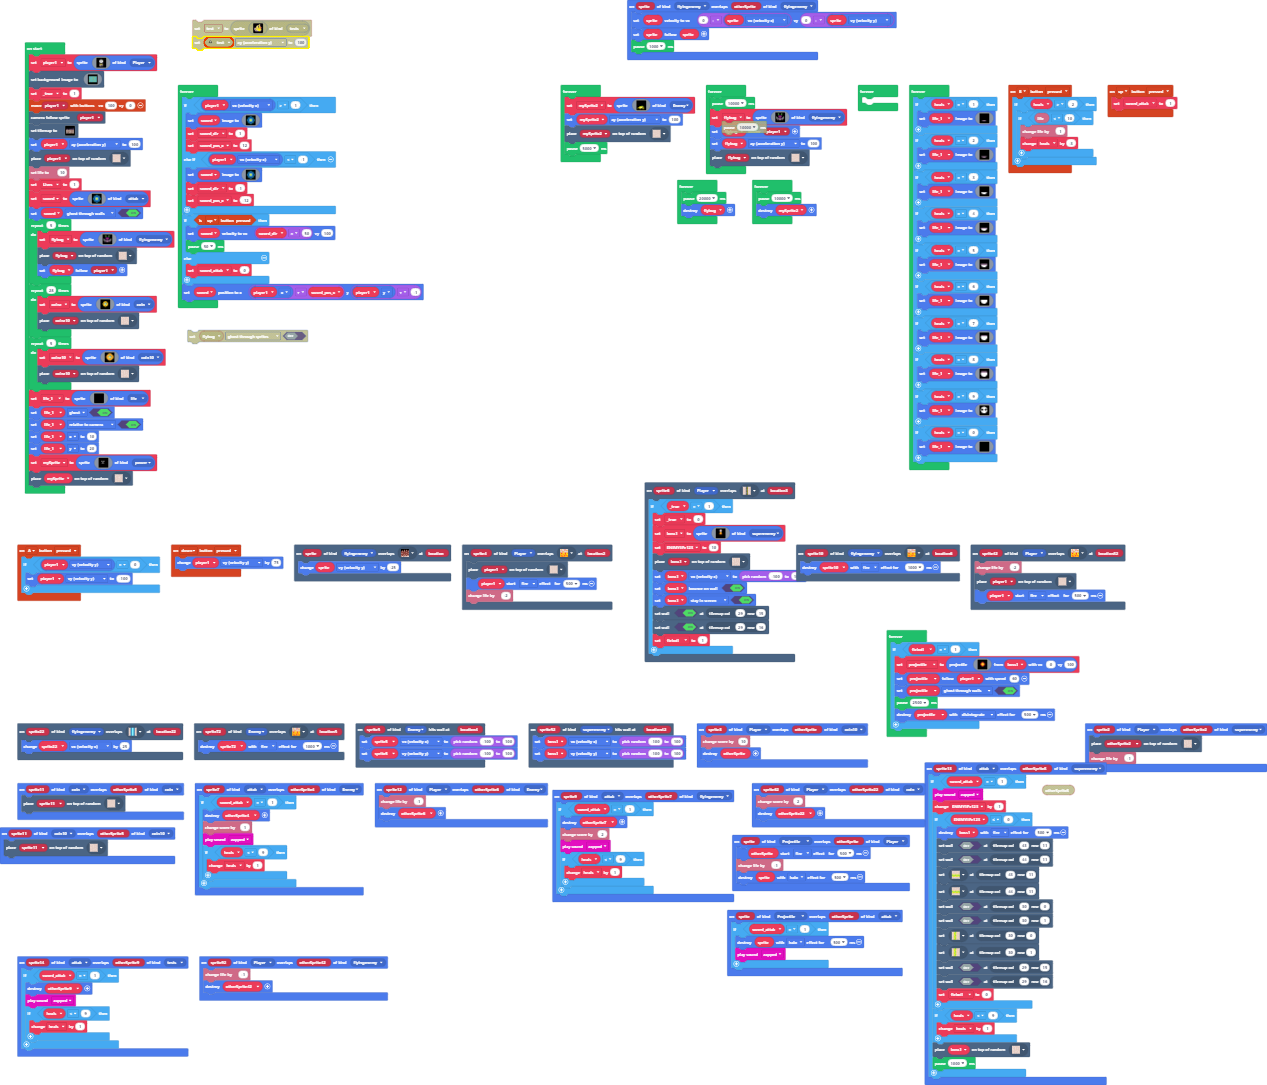
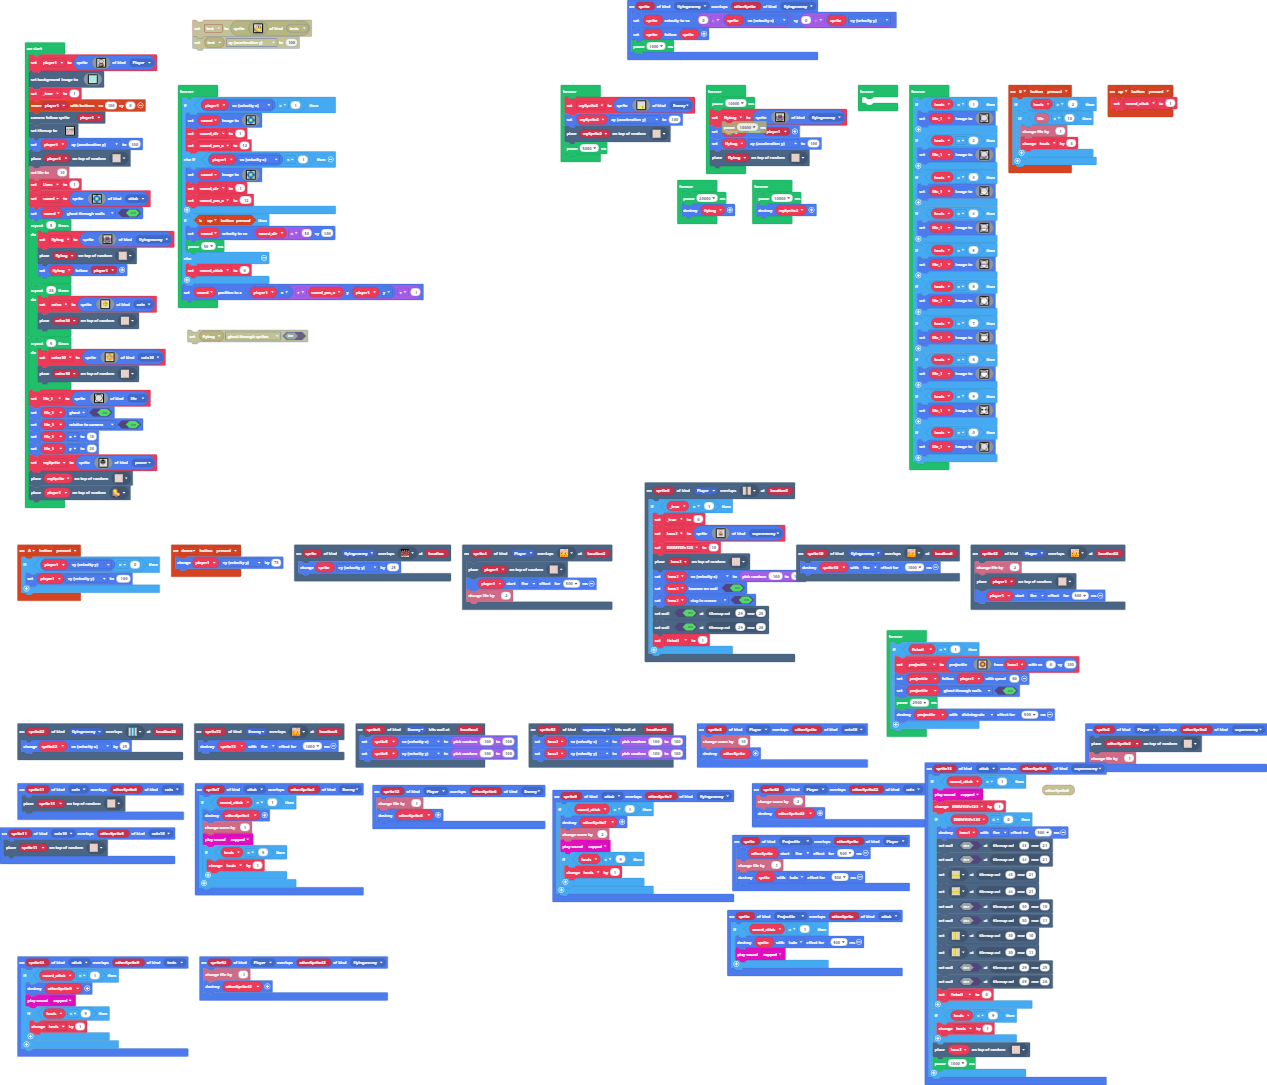
Update main.blocks, main.ts, tilemap.g.jres, tilemap.g.ts

Changed region(s): [[0.277, 0.6995, 0.4309, 0.7604], [0.0, 0.4258, 0.1231, 0.4866], [0.1539, 0.0304, 0.2463, 0.0608]]

diff --git a/tilemap.g.ts b/tilemap.g.ts
@@ -80,11 +80,13 @@ namespace myTiles {
     export const tile38 = image.ofBuffer(hex``);
     //% fixedInstance jres blockIdentity=images._tile
     export const tile39 = image.ofBuffer(hex``);
+    //% fixedInstance jres blockIdentity=images._tile
+    export const tile40 = image.ofBuffer(hex``);
 
     helpers._registerFactory("tilemap", function(name: string) {
         switch(helpers.stringTrim(name)) {
             case "level1":
[2 lines of base64/hex data omitted]
 .............................................
 .............................................
 .....................................22222222
@@ -115,7 +117,7 @@ namespace myTiles {
 ........2...................222...2..22..2...
 .2......2......2............222.2..........2.
 ........2...2..2............222..............
-`, [myTiles.transparency16,myTiles.tile1,myTiles.tile2,myTiles.tile3,myTiles.tile8,myTiles.tile14,myTiles.tile9,myTiles.tile18,myTiles.tile19,myTiles.tile20,myTiles.tile21,myTiles.tile22,myTiles.tile23,myTiles.tile24,myTiles.tile5,myTiles.tile25,myTiles.tile26,myTiles.tile27,myTiles.tile28,myTiles.tile30,myTiles.tile32,myTiles.tile33,myTiles.tile34,myTiles.tile35,myTiles.tile36,myTiles.tile37,myTiles.tile38,myTiles.tile39], TileScale.Sixteen);
+`, [myTiles.transparency16,myTiles.tile1,myTiles.tile2,myTiles.tile3,myTiles.tile8,myTiles.tile14,myTiles.tile9,myTiles.tile18,myTiles.tile19,myTiles.tile20,myTiles.tile21,myTiles.tile22,myTiles.tile23,myTiles.tile24,myTiles.tile5,myTiles.tile25,myTiles.tile26,myTiles.tile27,myTiles.tile28,myTiles.tile30,myTiles.tile32,myTiles.tile33,myTiles.tile34,myTiles.tile35,myTiles.tile36,myTiles.tile37,myTiles.tile38,myTiles.tile39,myTiles.tile40], TileScale.Sixteen);
         }
         return null;
     })
@@ -201,6 +203,8 @@ namespace myTiles {
             case "tile38":return tile38;
             case "myTile37":
             case "tile39":return tile39;
+            case "myTile38":
+            case "tile40":return tile40;
         }
         return null;
     })

diff --git a/main.ts b/main.ts
@@ -130,8 +130,8 @@ scene.onOverlapTile(SpriteKind.Player, assets.tile`myTile3`, function (sprite6, 
         boss1.vx = randint(-100, 100)
         boss1.setBounceOnWall(true)
         boss1.setFlag(SpriteFlag.StayInScreen, true)
-        tiles.setWallAt(tiles.getTileLocation(29, 15), true)
-        tiles.setWallAt(tiles.getTileLocation(29, 16), true)
+        tiles.setWallAt(tiles.getTileLocation(29, 25), true)
+        tiles.setWallAt(tiles.getTileLocation(29, 26), true)
         fieboll = 1
     }
 })
@@ -164,16 +164,16 @@ sprites.onOverlap(SpriteKind.attak, SpriteKind.superenemy, function (sprite13, o
         ENIMYliFe123 += -1
         if (ENIMYliFe123 <= 0) {
             boss1.destroy(effects.fire, 500)
-            tiles.setWallAt(tiles.getTileLocation(43, 11), false)
-            tiles.setWallAt(tiles.getTileLocation(44, 11), false)
-            tiles.setTileAt(tiles.getTileLocation(43, 11), assets.tile`myTile27`)
-            tiles.setTileAt(tiles.getTileLocation(44, 11), assets.tile`myTile27`)
-            tiles.setWallAt(tiles.getTileLocation(30, 0), false)
-            tiles.setWallAt(tiles.getTileLocation(30, 1), false)
-            tiles.setTileAt(tiles.getTileLocation(30, 0), assets.tile`myTile29`)
-            tiles.setTileAt(tiles.getTileLocation(30, 1), assets.tile`myTile29`)
-            tiles.setWallAt(tiles.getTileLocation(29, 15), false)
-            tiles.setWallAt(tiles.getTileLocation(29, 16), false)
+            tiles.setWallAt(tiles.getTileLocation(43, 21), false)
+            tiles.setWallAt(tiles.getTileLocation(44, 21), false)
+            tiles.setTileAt(tiles.getTileLocation(43, 21), assets.tile`myTile27`)
+            tiles.setTileAt(tiles.getTileLocation(44, 21), assets.tile`myTile27`)
+            tiles.setWallAt(tiles.getTileLocation(30, 10), false)
+            tiles.setWallAt(tiles.getTileLocation(30, 11), false)
+            tiles.setTileAt(tiles.getTileLocation(30, 10), assets.tile`myTile29`)
+            tiles.setTileAt(tiles.getTileLocation(30, 11), assets.tile`myTile29`)
+            tiles.setWallAt(tiles.getTileLocation(29, 25), false)
+            tiles.setWallAt(tiles.getTileLocation(29, 26), false)
             fieboll = 0
         }
         if (heals < 9) {
@@ -480,6 +480,7 @@ let mySprite = sprites.create(img`
     . . . . . . . . . . . . . . . . 
     `, SpriteKind.power)
 tiles.placeOnRandomTile(mySprite, assets.tile`myTile30`)
+tiles.placeOnRandomTile(player1, assets.tile`myTile38`)
 forever(function () {
     if (player1.vx > 1) {
         sword.setImage(img`
